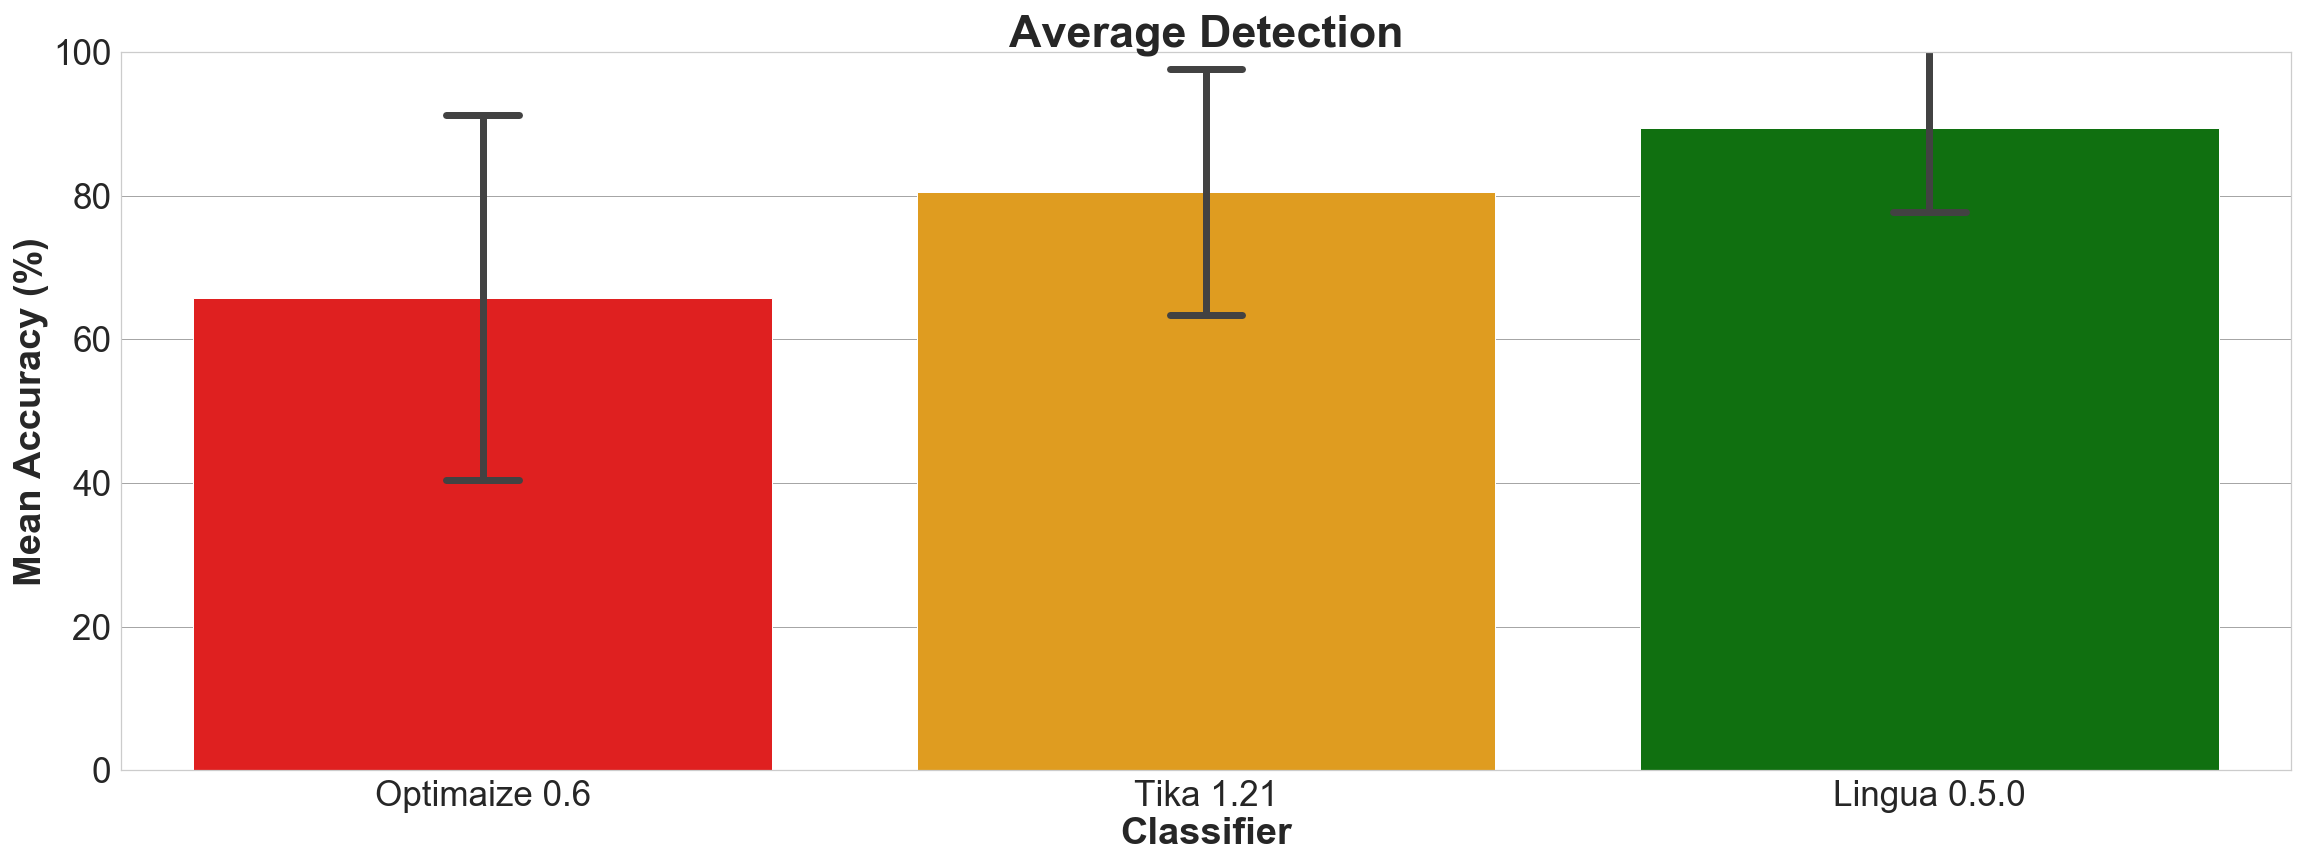
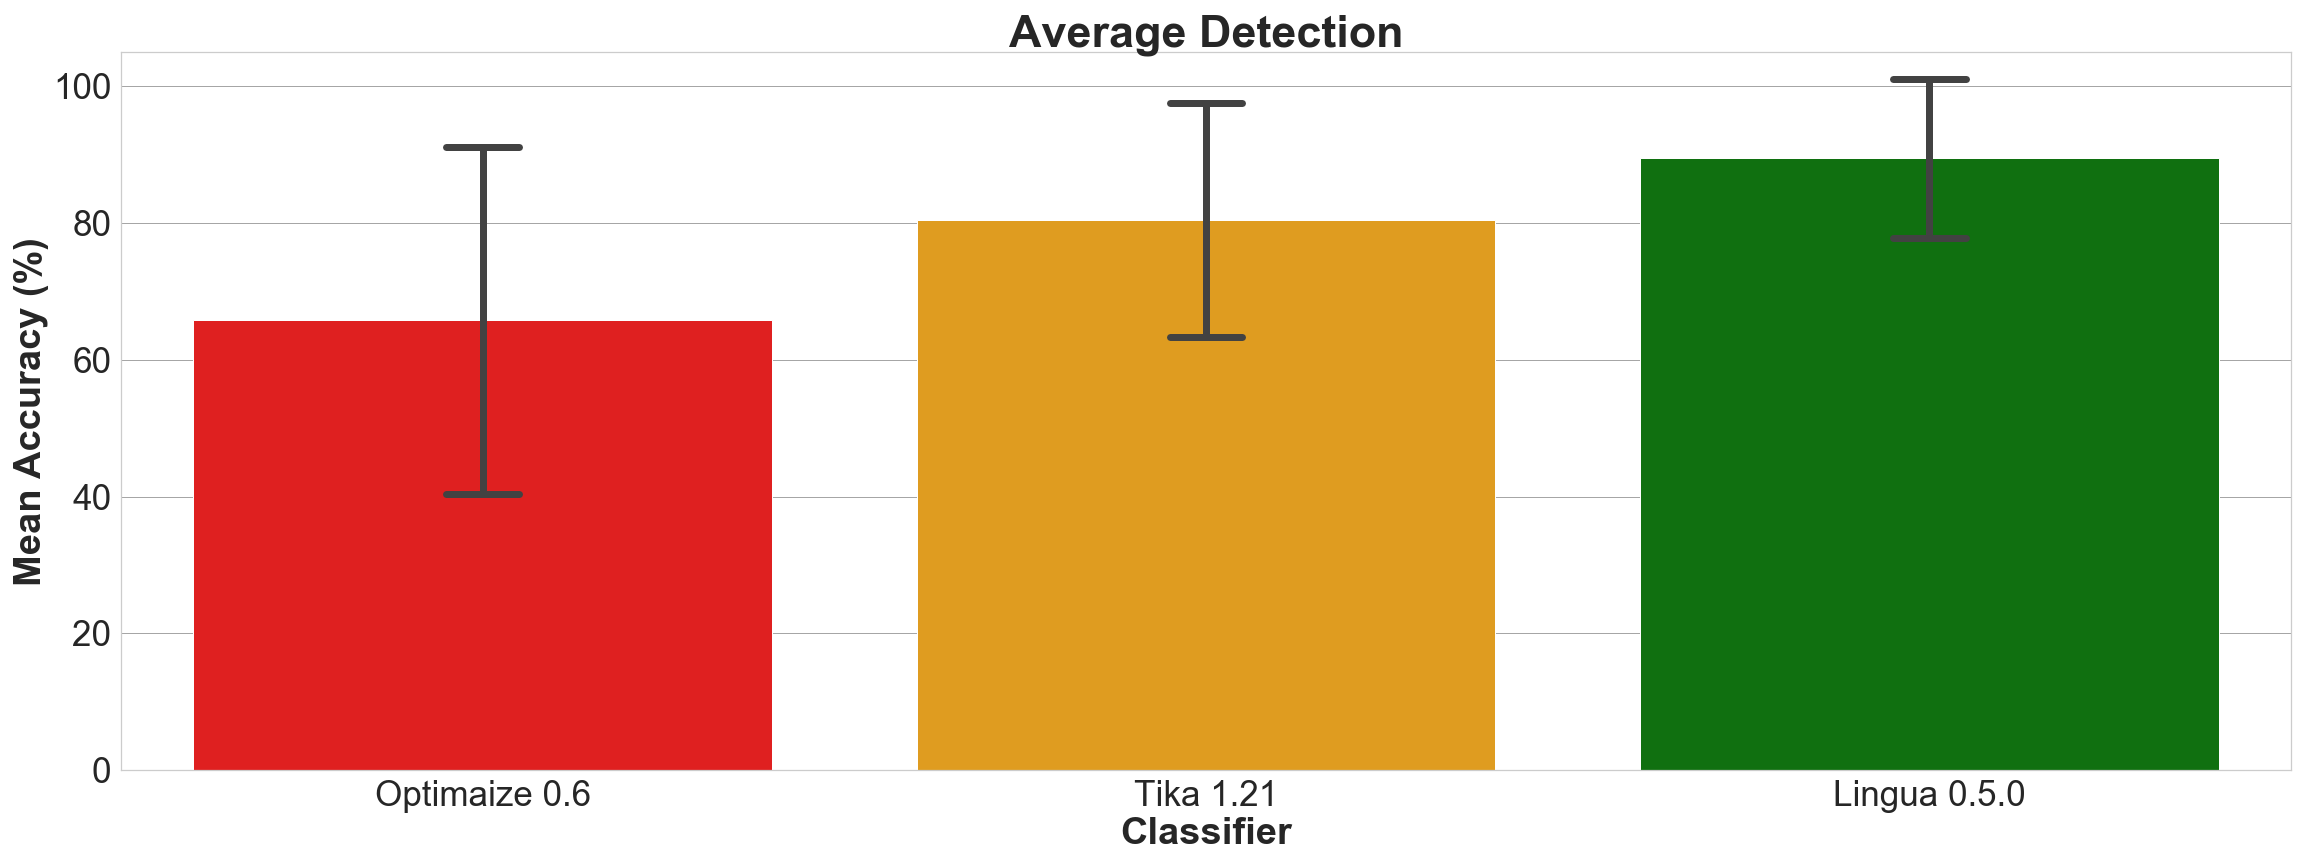
Update README

diff --git a/src/python-scripts/draw_accuracy_plots.py b/src/python-scripts/draw_accuracy_plots.py
@@ -193,7 +193,7 @@ create_barplot(
     data=accuracy_values_data_frame,
     columns=['average-optimaize', 'average-tika', 'average-lingua'],
     title='Average Detection',
-    ylim=[0,100],
+    ylim=[0,105],
     filename='barplot-average.png'
 )
 

diff --git a/README.md b/README.md
@@ -1,4 +1,4 @@
-[![lingua](images/logo.png)][translate-lingua] 
+![lingua](images/logo.png) 
 
 # language detection done right
 *Lingua* is a language detection library for Java and other JVM languages, suitable for long and short text alike.
@@ -24,7 +24,7 @@
 ### Quick Info
 * this library tries to solve language detection of very short words and phrases, even shorter than tweets
 * makes use of both statistical and rule-based approaches
-* already outperforms *Apache Tika* and *Optimaize Language Detector* in this respect for more than 40 languages
+* already outperforms *Apache Tika* and *Optimaize Language Detector* in this respect for more than 50 languages
 * works within every Java 6+ application and on Android
 * no additional training of language models necessary
 * offline usage without having to connect to an external service or API
@@ -68,32 +68,37 @@ So far, two other comprehensive open source libraries working on the JVM for thi
 
 ## 3. <a name="supported-languages"></a> Which languages are supported? <sup>[Top ▲](#table-of-contents)</sup>
 
-Compared to other language detection libraries, *Lingua's* focus is on *quality over quantity*, that is, getting detection right for a small set of languages first before adding new ones. Currently, the following 43 languages are supported:
+Compared to other language detection libraries, *Lingua's* focus is on *quality over quantity*, that is, getting detection right for a small set of languages first before adding new ones. Currently, the following 55 languages are supported:
 
 | Language   | ISO 639-1 code | Language   | ISO 639-1 code |
 | --------   | -------------- | --------   | -------------- |
-| Afrikaans  | *af*           | Latin      | *la*           |
-| Albanian   | *sq*           | Latvian    | *lv*           |
-| Arabic     | *ar*           | Lithuanian | *lt*           |
-| Basque     | *eu*           | Malay      | *ms*           |
-| Belarusian | *be*           | Norwegian  | *no*           |
-| Bokmal     | *nb*           | Nynorsk    | *nn*           |
-| Bulgarian  | *bg*           | Persian    | *fa*           |
-| Catalan    | *ca*           | Polish     | *pl*           |
+| Afrikaans  | *af*           | Japanese   | *ja*           |
+| Albanian   | *sq*           | Korean     | *ko*           |
+| Arabic     | *ar*           | Latin      | *la*           |
+| Basque     | *eu*           | Latvian    | *lv*           |
+| Belarusian | *be*           | Lithuanian | *lt*           |
+| Bengali    | *bn*           | Malay      | *ms*           |
+| Bokmal     | *nb*           | Norwegian  | *no*           |
+| Bulgarian  | *bg*           | Nynorsk    | *nn*           |
+| Catalan    | *ca*           | Persian    | *fa*           |
+| Chinese    | *zh*           | Polish     | *pl*           |
 | Croatian   | *hr*           | Portuguese | *pt*           |
-| Czech      | *cs*           | Romanian   | *ro*           |
-| Danish     | *da*           | Russian    | *ru*           |
-| Dutch      | *nl*           | Slovak     | *sk*           |
-| English    | *en*           | Slovene    | *sl*           |
-| Estonian   | *et*           | Somali     | *so*           |
-| Finnish    | *fi*           | Spanish    | *es*           |
-| French     | *fr*           | Swedish    | *sv*           |
-| German     | *de*           | Tagalog    | *tl*           |
-| Greek      | *el*           | Turkish    | *tr*           |
-| Hungarian  | *hu*           | Vietnamese | *vi*           |
-| Icelandic  | *is*           | Welsh      | *cy*           |
-| Indonesian | *id*           |            |                |
-| Irish      | *ga*           |            |                |
+| Czech      | *cs*           | Punjabi    | *pa*           |
+| Danish     | *da*           | Romanian   | *ro*           |
+| Dutch      | *nl*           | Russian    | *ru*           |
+| English    | *en*           | Slovak     | *sk*           |
+| Estonian   | *et*           | Slovene    | *sl*           |
+| Finnish    | *fi*           | Somali     | *so*           |
+| French     | *fr*           | Spanish    | *es*           |
+| German     | *de*           | Swedish    | *sv*           |
+| Greek      | *el*           | Tagalog    | *tl*           |
+| Gujarati   | *gu*           | Tamil      | *ta*           |
+| Hebrew     | *he*           | Telugu     | *te*           |
+| Hindi      | *hi*           | Thai       | *th*           |
+| Hungarian  | *hu*           | Turkish    | *tr*           |
+| Icelandic  | *is*           | Urdu       | *ur*           |
+| Indonesian | *id*           | Vietnamese | *vi*           |
+| Irish      | *ga*           | Welsh      | *cy*           |
 | Italian    | *it*           |            |                |
 
 ## 4. <a name="library-accuracy"></a> How good is it? <sup>[Top ▲](#table-of-contents)</sup>
@@ -105,7 +110,7 @@ Compared to other language detection libraries, *Lingua's* focus is on *quality 
 
 Both the language models and the test data have been created from separate documents of the [Wortschatz corpora] offered by Leipzig University, Germany. Data crawled from various news websites have been used for training, each corpus comprising one million sentences. For testing, corpora made of arbitrarily chosen websites have been used, each comprising ten thousand sentences. From each test corpus, a random unsorted subset of 1000 single words, 1000 word pairs and 1000 sentences has been extracted, respectively.
 
-Given the generated test data, I have compared the detection results of *Lingua*, *Apache Tika* and *Optimaize Language Detector* using parameterized JUnit tests running over the data of 40 languages. *Tika* actually uses a heavily optimized version of *Optimaize* internally. Bokmal, Latin and Nynorsk are currently only supported by *Lingua*, so they are left out both in the decision process and in the comparison. All other 40 are indeed part of the decision process, that is, each classifier might theoretically return one of these 40 languages as the result.
+Given the generated test data, I have compared the detection results of *Lingua*, *Apache Tika* and *Optimaize Language Detector* using parameterized JUnit tests running over the data of 52 languages. *Tika* actually uses a heavily optimized version of *Optimaize* internally. Bokmal, Latin and Nynorsk are currently only supported by *Lingua*, so they are left out both in the decision process and in the comparison. All other 52 are indeed part of the decision process, that is, each classifier might theoretically return one of these 52 languages as the result.
 
 The table below shows the averaged accuracy values over all three performed tasks, that is, single word detection, word pair detection and sentence detection.
 
@@ -123,6 +128,10 @@ You can also restrict the classifiers and languages to generate reports for by p
 
     ./gradlew writeAccuracyReports -Pdetectors=Lingua -Planguages=English,German
 
+By default, only a single CPU core is used for report generation. If you have a multi-core CPU in your machine, you can fork as many processes as you have CPU cores. This speeds up report generation significantly. However, be aware that forking more than one process can consume a lot of RAM. You do it like this:
+
+    ./gradlew writeAccuracyReports -PcpuCores=2
+
 For each detector and language, a test report file is then written into [`/accuracy-reports`](https://github.com/pemistahl/lingua/tree/master/accuracy-reports), to be found next to the `src` directory. 
 As an example, here is the current output of the *Lingua* German report:
 
@@ -131,22 +140,22 @@ com.github.pemistahl.lingua.report.lingua.GermanDetectionAccuracyReport
 
 ##### GERMAN #####
 
->>> Accuracy on average: 89,87%
+>>> Accuracy on average: 89,90%
 
 >> Detection of 1000 single words (average length: 9 chars)
 Accuracy: 75,10%
 Erroneously classified as DUTCH: 2,50%, DANISH: 2,50%, ENGLISH: 2,30%, NORWEGIAN: 2,10%, ITALIAN: 1,60%, SWEDISH: 1,40%, FRENCH: 1,40%, BASQUE: 1,20%, WELSH: 1,00%, AFRIKAANS: 0,90%, PORTUGUESE: 0,80%, ALBANIAN: 0,70%, FINNISH: 0,70%, ESTONIAN: 0,60%, SPANISH: 0,50%, IRISH: 0,50%, TAGALOG: 0,40%, CROATIAN: 0,40%, POLISH: 0,40%, SOMALI: 0,30%, LITHUANIAN: 0,30%, INDONESIAN: 0,30%, ROMANIAN: 0,30%, TURKISH: 0,30%, CATALAN: 0,30%, SLOVENE: 0,30%, ICELANDIC: 0,30%, LATVIAN: 0,20%, MALAY: 0,20%, CZECH: 0,10%, SLOVAK: 0,10%
 
 >> Detection of 1000 word pairs (average length: 18 chars)
-Accuracy: 94,80%
-Erroneously classified as DUTCH: 1,10%, ENGLISH: 0,80%, DANISH: 0,60%, SWEDISH: 0,50%, TAGALOG: 0,40%, FRENCH: 0,40%, WELSH: 0,30%, NORWEGIAN: 0,30%, TURKISH: 0,20%, IRISH: 0,20%, ESTONIAN: 0,10%, FINNISH: 0,10%, ITALIAN: 0,10%, INDONESIAN: 0,10%
+Accuracy: 94,90%
+Erroneously classified as DUTCH: 1,10%, ENGLISH: 0,80%, DANISH: 0,60%, SWEDISH: 0,50%, FRENCH: 0,40%, TAGALOG: 0,30%, WELSH: 0,30%, NORWEGIAN: 0,30%, TURKISH: 0,20%, IRISH: 0,20%, ESTONIAN: 0,10%, FINNISH: 0,10%, ITALIAN: 0,10%, INDONESIAN: 0,10%
 
 >> Detection of 1000 sentences (average length: 111 chars)
 Accuracy: 99,70%
-Erroneously classified as DUTCH: 0,20%, DANISH: 0,10%
+Erroneously classified as DUTCH: 0,20%, PORTUGUESE: 0,10%
 ```
 
-The plots have been created with Python and the libraries Pandas, Matplotlib and Seaborn. If you have Python installed, you can redraw the plots after modifying the test reports by executing the following Gradle task:
+The plots have been created with Python and the libraries Pandas, Matplotlib and Seaborn. If you have a global Python 3 installation and the `python3` command available on your command line, you can redraw the plots after modifying the test reports by executing the following Gradle task:
 
     ./gradlew drawAccuracyPlots
     
@@ -161,7 +170,11 @@ The detailed table in the file [`ACCURACY_TABLE.md`](https://github.com/pemistah
 ### 6.1 <a name="library-dependency-gradle"></a> Using Gradle
 
 ```
-implementation 'com.github.pemistahl:lingua:0.4.0'
+// Groovy syntax
+implementation 'com.github.pemistahl:lingua:0.5.0'
+
+// Kotlin syntax
+implementation("com.github.pemistahl:lingua:0.5.0")
 ```
 
 ### 6.2 <a name="library-dependency-maven"></a> Using Maven
@@ -170,7 +183,7 @@ implementation 'com.github.pemistahl:lingua:0.4.0'
 <dependency>
     <groupId>com.github.pemistahl</groupId>
     <artifactId>lingua</artifactId>
-    <version>0.4.0</version>
+    <version>0.5.0</version>
 </dependency>
 ```
 
@@ -184,9 +197,9 @@ cd lingua
 ./gradlew build
 ```
 Several jar archives can be created from the project.
-1. `./gradlew jar` assembles `lingua-0.4.0.jar` containing the compiled sources only.
-2. `./gradlew sourcesJar` assembles `lingua-0.4.0-sources.jar` containing the plain source code.
-3. `./gradlew jarWithDependencies` assembles `lingua-0.4.0-with-dependencies.jar` containing the compiled sources and all external dependencies needed at runtime. This jar file can be included in projects without dependency management systems. You should be able to use it in your Android project as well by putting it in your project's `lib` folder. This jar file can also be used to run *Lingua* in standalone mode (see below).
+1. `./gradlew jar` assembles `lingua-0.5.0.jar` containing the compiled sources only.
+2. `./gradlew sourcesJar` assembles `lingua-0.5.0-sources.jar` containing the plain source code.
+3. `./gradlew jarWithDependencies` assembles `lingua-0.5.0-with-dependencies.jar` containing the compiled sources and all external dependencies needed at runtime. This jar file can be included in projects without dependency management systems. You should be able to use it in your Android project as well by putting it in your project's `lib` folder. This jar file can also be used to run *Lingua* in standalone mode (see below).
 
 ## 8. <a name="library-use"></a> How to use? <sup>[Top ▲](#table-of-contents)</sup>
 *Lingua* can be used programmatically in your own code or in standalone mode.
@@ -202,7 +215,7 @@ import com.github.pemistahl.lingua.api.LanguageDetector
 import com.github.pemistahl.lingua.api.Language
 
 println(Language.all())
-// [ARABIC, BELARUSIAN, BULGARIAN, ...]
+// [AFRIKAANS, ALBANIAN, ARABIC, ...]
 
 val detector: LanguageDetector = LanguageDetectorBuilder.fromAllBuiltInLanguages().build()
 val detectedLanguage: Language = detector.detectLanguageOf(text = "languages are awesome")
@@ -212,7 +225,18 @@ val languages: List<Language> = detector.detectLanguagesOf(texts = listOf("langu
 // [ENGLISH, ENGLISH, ENGLISH]
 ```
 
-If a string's language cannot be detected reliably because of missing linguistic information, `Language.UNKNOWN` is returned. The public API of *Lingua* never returns `null` somewhere, so it is safe to be used from within Java code as well.
+By default, *Lingua* returns the most likely language for a given input text. However, there are certain words that are spelled the same in more than one language. The word *prologue*, for instance, is both a valid English and French word. *Lingua* would output either English or French which might be wrong in the given context. For cases like that, it is possible to specify a minimum relative distance that the logarithmized and summed up probabilities for each possible language have to satisfy. It can be stated in the following way:
+
+```kotlin
+val detector = LanguageDetectorBuilder
+    .fromAllBuiltInLanguages()
+    .withMinimumRelativeDistance(0.25) // minimum: 0.00 maximum: 0.99 default: 0.00
+    .build()
+```
+
+Be aware that the distance between the language probabilities is dependent on the length of the input text. The longer the input text, the larger the distance between the languages. So if you want to classify very short text phrases, do not set the minimum relative distance too high. Otherwise you will get most results returned as `Language.UNKNOWN` which is the return value for cases where language detection is not reliably possible. 
+
+The public API of *Lingua* never returns `null` somewhere, so it is safe to be used from within Java code as well.
 
 ```java
 /* Java */
@@ -259,7 +283,7 @@ val detector = LanguageDetectorBuilder
 ### 8.2 <a name="library-use-standalone"></a> Standalone mode <sup>[Top ▲](#table-of-contents)</sup>
 If you want to try out *Lingua* before you decide whether to use it or not, you can run it in a REPL and immediately see its detection results.
 1. With Gradle: `./gradlew runLinguaOnConsole --console=plain`
-2. Without Gradle: `java -jar lingua-0.4.0-with-dependencies.jar`
+2. Without Gradle: `java -jar lingua-0.5.0-with-dependencies.jar`
 
 Then just play around:
 
@@ -267,36 +291,48 @@ Then just play around:
 This is Lingua.
 Select the language models to load.
 
-1: Afrikaans, Dutch
-2: Arabic, Persian
-3: Basque, Catalan, Spanish
-4: Belarusian, Bulgarian, Russian
-5: Bokmal, Nynorsk
-6: Croatian, Romanian
-7: Czech, Polish, Slovak, Slovene
-8: Danish, Icelandic, Norwegian, Swedish
-9: English, Dutch, German
-10: English, Irish, Welsh
-11: Estonian, Latvian, Lithuanian
-12: Finnish, Hungarian
-13: French, Italian, Spanish, Portuguese
-14: Indonesian, Malay, Tagalog
-15: all 41 supported languages
+----
+1: enter language iso codes manually
+----
+2: all 53 supported languages
+----
+3: Afrikaans, Dutch
+4: Arabic, Persian
+5: Basque, Catalan, Spanish
+6: Belarusian, Bulgarian, Russian
+7: Bokmal, Nynorsk
+8: Croatian, Romanian
+9: Czech, Polish, Slovak, Slovene
+10: Danish, Icelandic, Norwegian, Swedish
+11: English, Dutch, German
+12: English, Irish, Welsh
+13: Estonian, Latvian, Lithuanian
+14: Finnish, Hungarian
+15: French, Italian, Spanish, Portuguese
+16: Indonesian, Malay, Tagalog
+17: Chinese, Japanese, Korean, Thai
+18: Bengali, Gujarati, Hindi, Punjabi, Urdu, Tamil, Telugu
 
 Type a number and press <Enter>.
 Type :quit to exit.
 
-> 9
+> 1
+List some language iso codes separated by spaces and press <Enter>.
+Type :quit to exit.
+
+> en de fr
 Loading language models...
 Done. 3 language models loaded lazily.
 
 Type some text and press <Enter> to detect its language.
 Type :quit to exit.
 
-> Sprachen sind schon toll
-GERMAN
-> languages are great
+> languages
 ENGLISH
+> sont
+FRENCH
+> fantastisch
+GERMAN
 > :quit
 Bye! Ciao! Tschüss! Salut!
 ```
@@ -310,7 +346,7 @@ In case you want to contribute something to *Lingua* even though it's in a very 
 - accuracy improvements
 - more unit tests
 - API documentation
-- for version 1.0.0: public API stability, Gradle build, multiplatform support
+- for version 1.0.0: public API stability, multiplatform support
 
 [change log]: https://github.com/pemistahl/lingua/releases
 [change log badge]: https://img.shields.io/badge/change%20log-what's%20new%3F-yellow.svg
@@ -324,10 +360,10 @@ In case you want to contribute something to *Lingua* even though it's in a very 
 [maintainability url]: https://codeclimate.com/github/pemistahl/lingua/maintainability
 [codecov badge]: https://codecov.io/gh/pemistahl/lingua/branch/master/graph/badge.svg
 [codecov url]: https://codecov.io/gh/pemistahl/lingua
-[supported languages badge]: https://img.shields.io/badge/supported%20languages-43-yellow.svg
+[supported languages badge]: https://img.shields.io/badge/supported%20languages-55-yellow.svg
 [awesome nlp badge]: https://raw.githubusercontent.com/sindresorhus/awesome/master/media/mentioned-badge-flat.svg?sanitize=true
-[lingua version badge]: https://img.shields.io/badge/Download%20Jar-0.4.0-blue.svg
-[lingua download url]: https://bintray.com/pemistahl/nlp-libraries/download_file?file_path=com%2Fgithub%2Fpemistahl%2Flingua%2F0.4.0%2Flingua-0.4.0-with-dependencies.jar
+[lingua version badge]: https://img.shields.io/badge/Download%20Jar-0.5.0-blue.svg
+[lingua download url]: https://bintray.com/pemistahl/nlp-libraries/download_file?file_path=com%2Fgithub%2Fpemistahl%2Flingua%2F0.5.0%2Flingua-0.5.0-with-dependencies.jar
 [Kotlin version badge]: https://img.shields.io/badge/Kotlin-1.3-blue.svg?logo=kotlin
 [Kotlin url]: https://kotlinlang.org/docs/reference/whatsnew13.html
 [Kotlin platforms badge]: https://img.shields.io/badge/platforms-JDK%206%2B%20%7C%20Android-blue.svg
@@ -335,10 +371,9 @@ In case you want to contribute something to *Lingua* even though it's in a very 
 [license badge]: https://img.shields.io/badge/license-Apache%202.0-blue.svg
 [license url]: https://www.apache.org/licenses/LICENSE-2.0
 [Wortschatz corpora]: http://wortschatz.uni-leipzig.de
-[Apache Tika]: https://tika.apache.org/1.20/detection.html#Language_Detection
+[Apache Tika]: https://tika.apache.org/1.21/detection.html#Language_Detection
 [Optimaize Language Detector]: https://github.com/optimaize/language-detector
-[Jcenter]: https://bintray.com/pemistahl/nlp-libraries/lingua/0.4.0
-[Jcenter badge]: https://img.shields.io/badge/JCenter-0.4.0-green.svg
-[Maven Central]: https://search.maven.org/artifact/com.github.pemistahl/lingua/0.4.0/jar
-[Maven Central badge]: https://img.shields.io/badge/Maven%20Central-0.4.0-green.svg
-[translate-lingua]: https://translate.google.com/?hl=en#view=home&op=translate&sl=en&tl=la&text=tongue
+[Jcenter]: https://bintray.com/pemistahl/nlp-libraries/lingua/0.5.0
+[Jcenter badge]: https://img.shields.io/badge/JCenter-0.5.0-green.svg
+[Maven Central]: https://search.maven.org/artifact/com.github.pemistahl/lingua/0.5.0/jar
+[Maven Central badge]: https://img.shields.io/badge/Maven%20Central-0.5.0-green.svg
